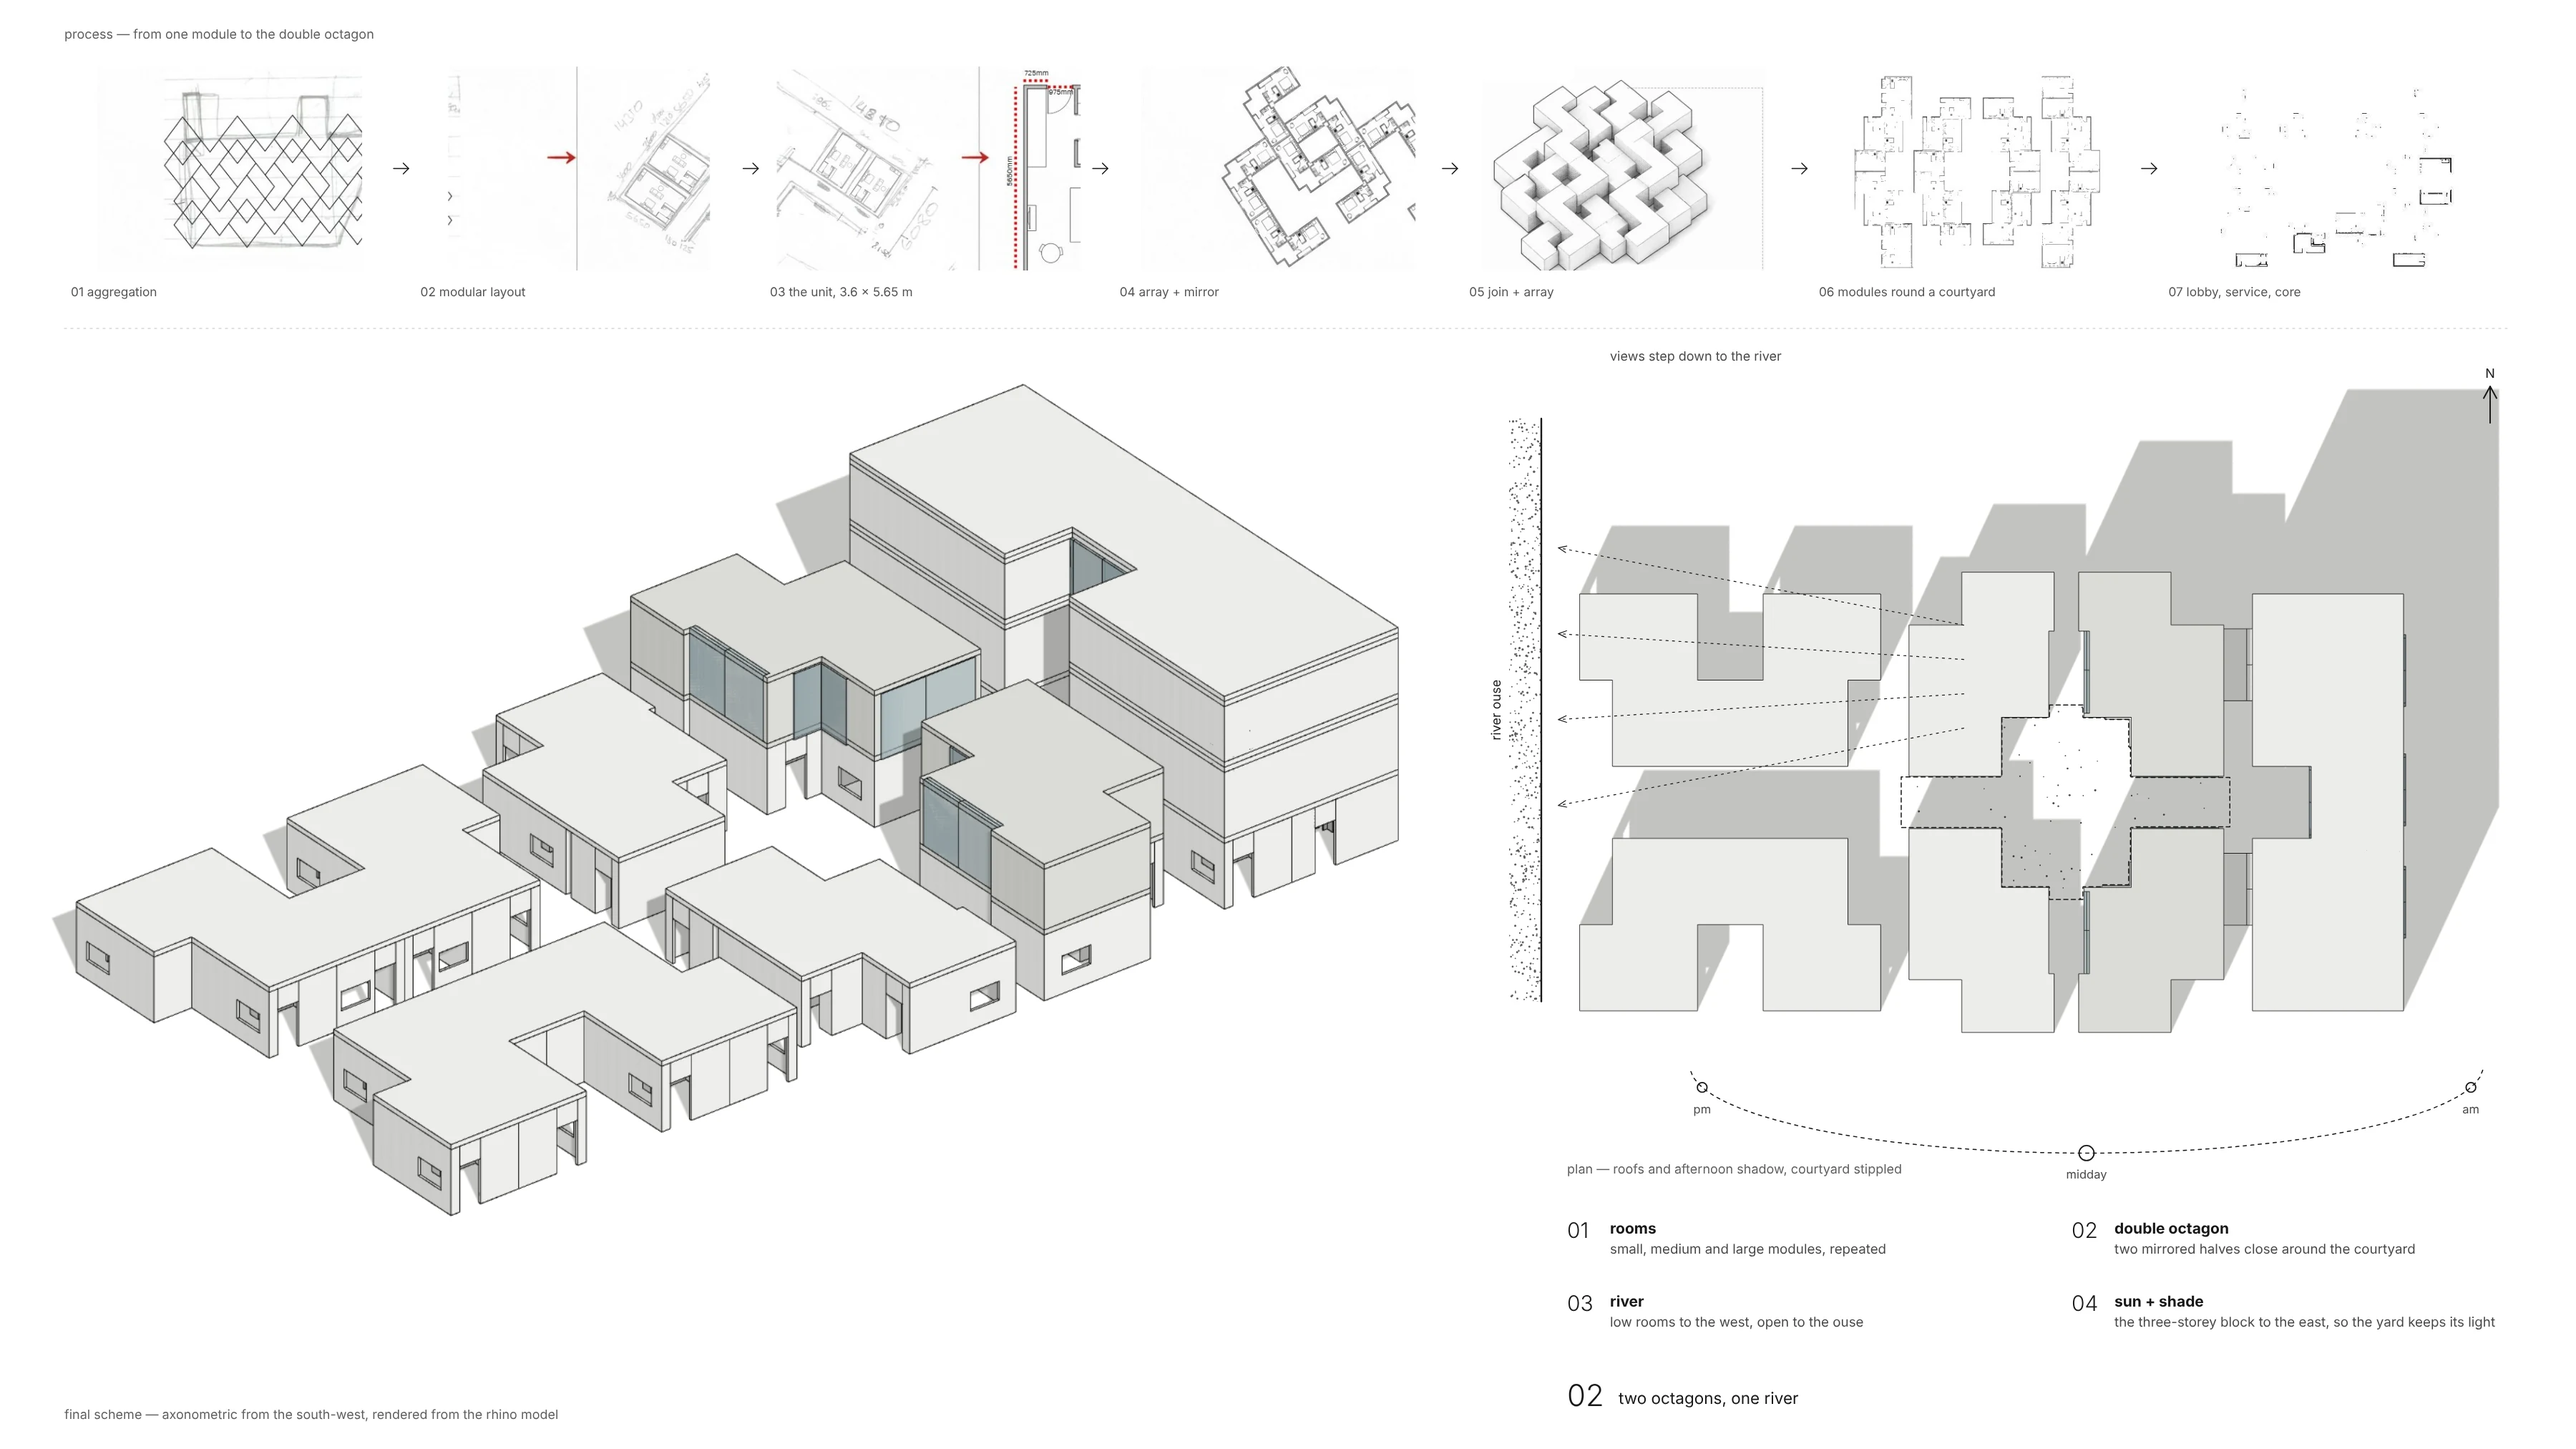
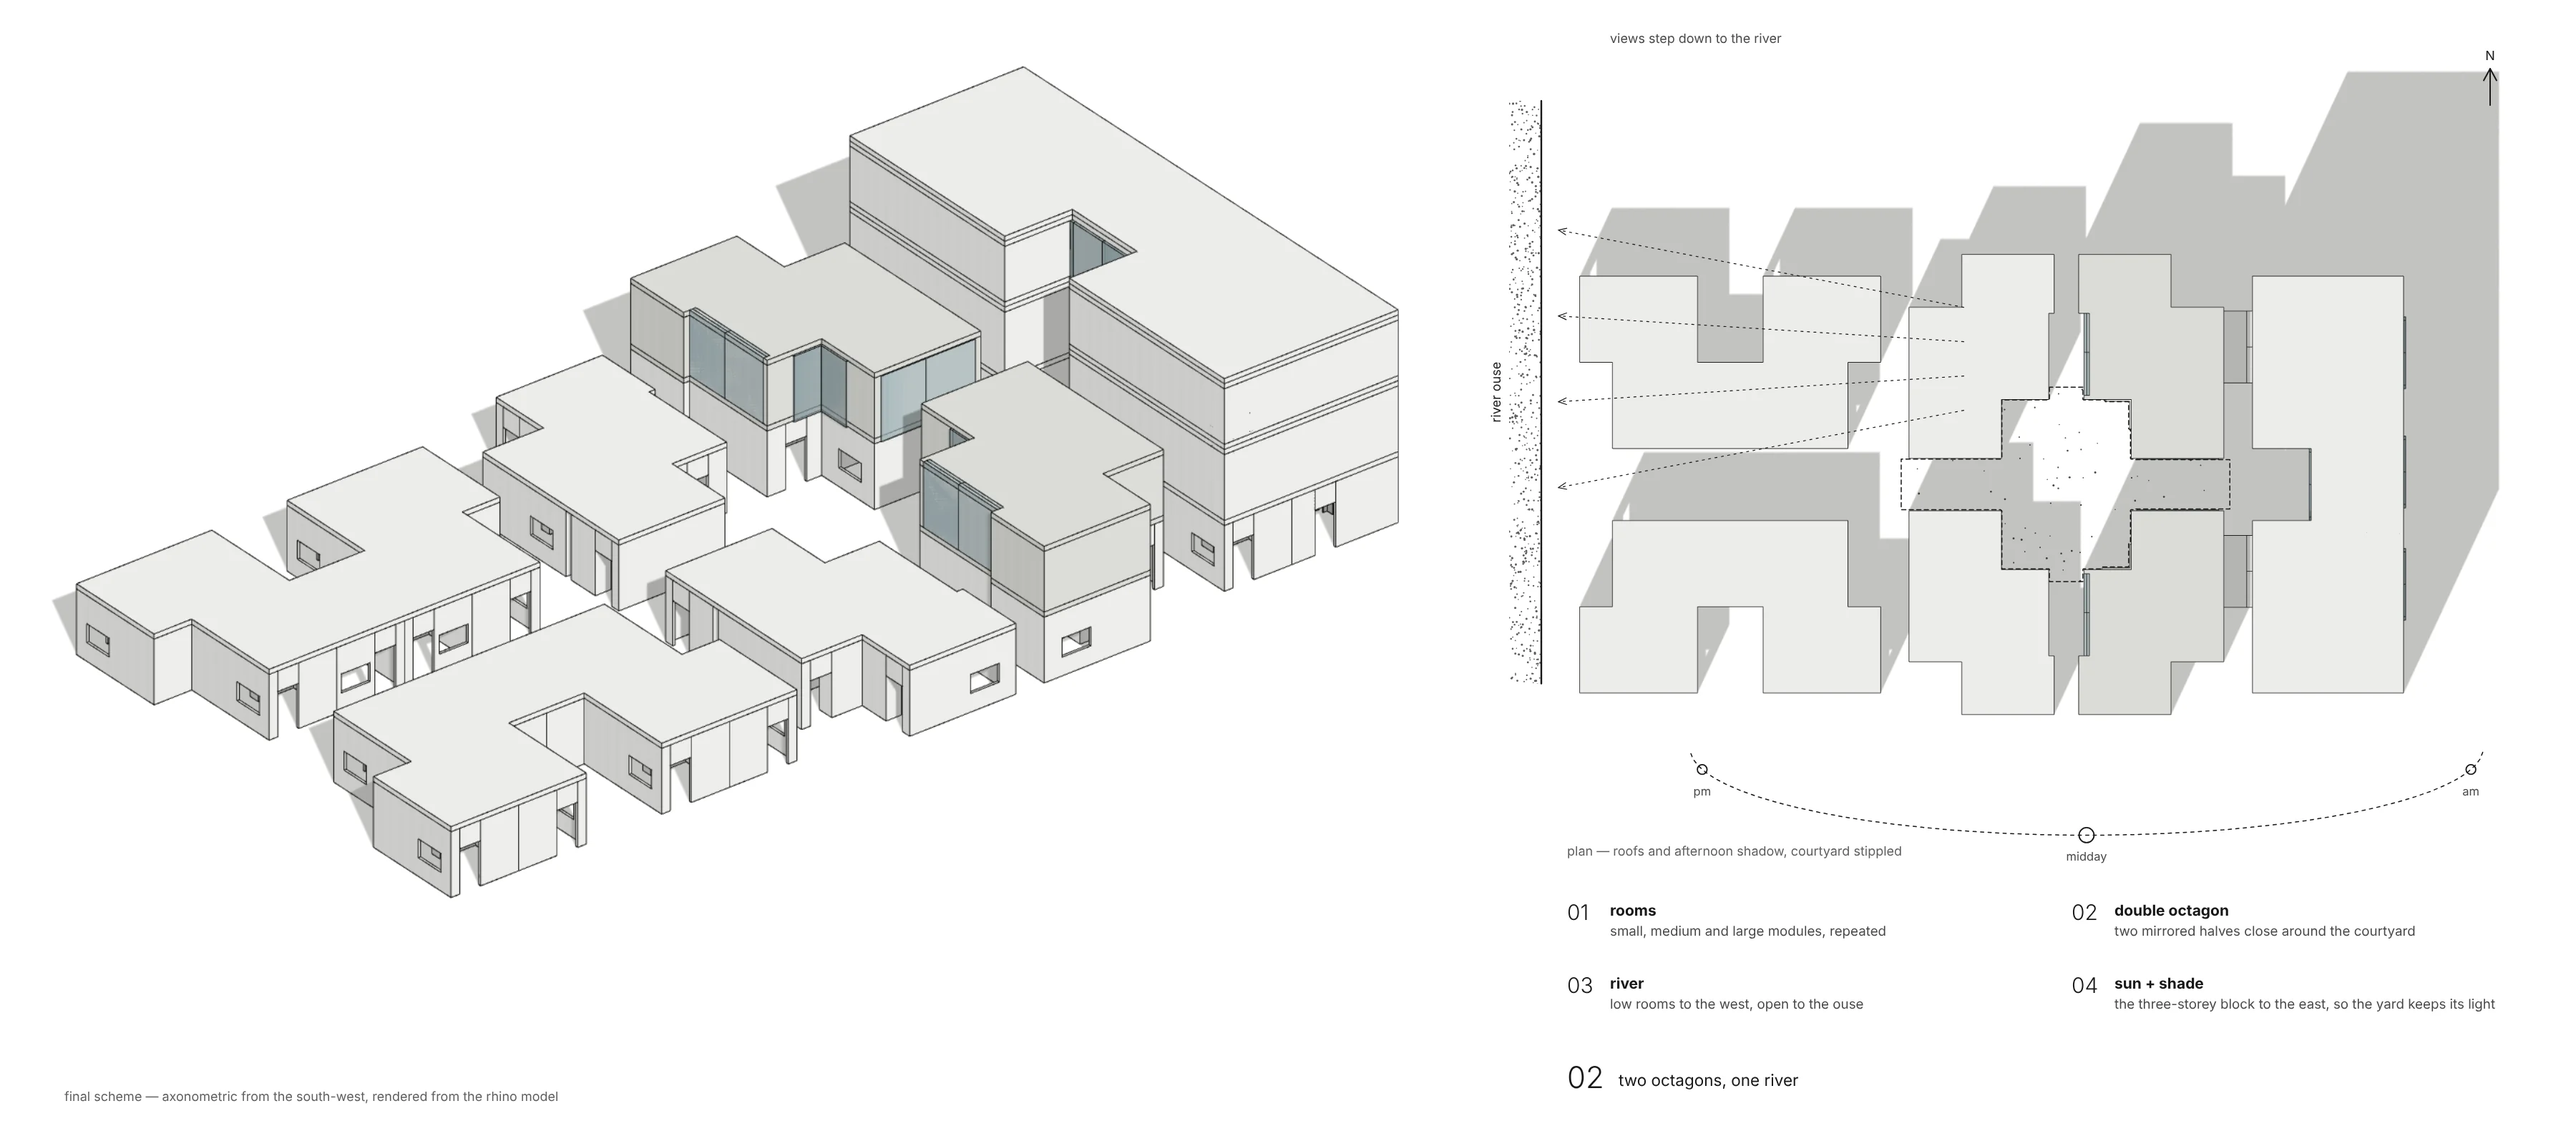
Check-in / Check-out sheet 2: remove process strip
Claude-Session: https://claude.ai/code/session_01QY36YexSrz47H8ohRwWEfB

diff --git a/academic/index.html b/academic/index.html
@@ -1,3 +1,3 @@
 <!doctype html>
 <html lang="en"><head><meta charset="utf-8"><meta name="viewport" content="width=device-width,initial-scale=1"><title>Academic — Muhammad Nada</title><meta name="description" content="Academic projects by Muhammad Nada."><link rel="stylesheet" href="/projects.css?v=7"><meta name="copyright" content="© Muhammad Nada. All rights reserved."><meta name="author" content="Muhammad Nada"><script src="/guard.js" defer></script></head>
-<body class="projects-page" data-collection="academic"><div class="frame" aria-hidden="true"></div><header class="project-topbar"><a class="project-brand" href="/">Muhammad Nada</a><nav aria-label="Primary"><a href="/">Home</a><a href="/form/">Info</a><a id="archive-toggle" href="#archive">Archive</a></nav></header><main><aside class="project-sidebar"><a class="back-index" href="/">← index</a><ul class="project-list" id="project-index" aria-label="Academic projects"></ul><div class="project-meta"><h1 id="project-title"></h1><p id="project-type"></p><p id="project-medium"></p><p>Muhammad Nada</p></div><div class="project-description"><p id="project-description"></p><span class="project-count" id="project-counter"></span></div></aside><section class="project-main" aria-label="Academic project viewer"><nav class="project-scroller" aria-label="Browse three projects"><button id="previous-project" aria-label="Previous project">←</button><div class="scroller-track"><input id="project-slider" type="range" min="1" max="3" step="1" value="1" aria-label="Project selector"><button data-project="0" aria-label="Project 1">01</button><button data-project="1" aria-label="Project 2">02</button><button data-project="2" aria-label="Project 3">03</button></div><button id="next-project" aria-label="Next project">→</button></nav><figure class="project-sheet" aria-live="polite"><div class="project-placeholder"><span class="folio" id="folio"></span><p id="sheet-title"></p><small>project imagery to be added</small></div><figcaption>studio / selected work</figcaption></figure></section></main><div class="theme-controls" role="group" aria-label="Colour theme"><small>theme</small><div><button data-theme="blue" aria-label="Turquoise theme"></button><button data-theme="yellow" aria-label="Yellow theme"></button><button data-theme="red" aria-label="Red theme"></button><button data-theme="light" aria-label="Light theme" aria-pressed="true"></button></div></div><div class="ticker" aria-label="Site updates"><div>EIGHT SIDES <span lang="ja">八つの面</span> <bdi lang="ar">ثمانية أوجه</bdi> /// ARCHITECTURE <span lang="ja">建築</span> <bdi lang="ar">عمارة</bdi> /// FORM <span lang="ja">形</span> <bdi lang="ar">شكل</bdi> /// FUNCTION <span lang="ja">機能</span> <bdi lang="ar">وظيفة</bdi> /// LIGHT + SHADE <span lang="ja">光と影</span> <bdi lang="ar">ضوء وظل</bdi> /// THE SEA <span lang="ja">海</span> <bdi lang="ar">البحر</bdi> /// CLAY + GLASS <span lang="ja">土と硝子</span> <bdi lang="ar">طين وزجاج</bdi> /// BALANCE <span lang="ja">均衡</span> <bdi lang="ar">توازن</bdi> /// REST <span lang="ja">休息</span> <bdi lang="ar">راحة</bdi> /// CAIRO · LONDON · BOSTON <span lang="ja">カイロ・ロンドン・ボストン</span> <bdi lang="ar">القاهرة · لندن · بوسطن</bdi> /// ALWAYS IN PROGRESS <span lang="ja">未完成</span> <bdi lang="ar">قيد الإنجاز</bdi> /// EIGHT SIDES <span lang="ja">八つの面</span> <bdi lang="ar">ثمانية أوجه</bdi> /// ARCHITECTURE <span lang="ja">建築</span> <bdi lang="ar">عمارة</bdi> /// FORM <span lang="ja">形</span> <bdi lang="ar">شكل</bdi> /// FUNCTION <span lang="ja">機能</span> <bdi lang="ar">وظيفة</bdi> /// LIGHT + SHADE <span lang="ja">光と影</span> <bdi lang="ar">ضوء وظل</bdi> /// THE SEA <span lang="ja">海</span> <bdi lang="ar">البحر</bdi> /// CLAY + GLASS <span lang="ja">土と硝子</span> <bdi lang="ar">طين وزجاج</bdi> /// BALANCE <span lang="ja">均衡</span> <bdi lang="ar">توازن</bdi> /// REST <span lang="ja">休息</span> <bdi lang="ar">راحة</bdi> /// CAIRO · LONDON · BOSTON <span lang="ja">カイロ・ロンドン・ボストン</span> <bdi lang="ar">القاهرة · لندن · بوسطن</bdi> /// ALWAYS IN PROGRESS <span lang="ja">未完成</span> <bdi lang="ar">قيد الإنجاز</bdi> /// </div></div><button class="sound" id="sound" aria-pressed="false" aria-label="Toggle interaction sounds"><span>▂ ▄ ▆</span><small>sound off</small></button><dialog id="archive"><button id="archive-close" class="archive-close" aria-label="Close archive">[ close × ]</button><h2>archive</h2><div class="archive-links"><a href="#project-1">academic / 01</a><a href="#project-2">academic / 02</a><a href="#project-3">academic / 03 serpentine pavilion</a></div></dialog><script type="module" src="/projects.mjs?v=7"></script></body></html>
+<body class="projects-page" data-collection="academic"><div class="frame" aria-hidden="true"></div><header class="project-topbar"><a class="project-brand" href="/">Muhammad Nada</a><nav aria-label="Primary"><a href="/">Home</a><a href="/form/">Info</a><a id="archive-toggle" href="#archive">Archive</a></nav></header><main><aside class="project-sidebar"><a class="back-index" href="/">← index</a><ul class="project-list" id="project-index" aria-label="Academic projects"></ul><div class="project-meta"><h1 id="project-title"></h1><p id="project-type"></p><p id="project-medium"></p><p>Muhammad Nada</p></div><div class="project-description"><p id="project-description"></p><span class="project-count" id="project-counter"></span></div></aside><section class="project-main" aria-label="Academic project viewer"><nav class="project-scroller" aria-label="Browse three projects"><button id="previous-project" aria-label="Previous project">←</button><div class="scroller-track"><input id="project-slider" type="range" min="1" max="3" step="1" value="1" aria-label="Project selector"><button data-project="0" aria-label="Project 1">01</button><button data-project="1" aria-label="Project 2">02</button><button data-project="2" aria-label="Project 3">03</button></div><button id="next-project" aria-label="Next project">→</button></nav><figure class="project-sheet" aria-live="polite"><div class="project-placeholder"><span class="folio" id="folio"></span><p id="sheet-title"></p><small>project imagery to be added</small></div><figcaption>studio / selected work</figcaption></figure></section></main><div class="theme-controls" role="group" aria-label="Colour theme"><small>theme</small><div><button data-theme="blue" aria-label="Turquoise theme"></button><button data-theme="yellow" aria-label="Yellow theme"></button><button data-theme="red" aria-label="Red theme"></button><button data-theme="light" aria-label="Light theme" aria-pressed="true"></button></div></div><div class="ticker" aria-label="Site updates"><div>EIGHT SIDES <span lang="ja">八つの面</span> <bdi lang="ar">ثمانية أوجه</bdi> /// ARCHITECTURE <span lang="ja">建築</span> <bdi lang="ar">عمارة</bdi> /// FORM <span lang="ja">形</span> <bdi lang="ar">شكل</bdi> /// FUNCTION <span lang="ja">機能</span> <bdi lang="ar">وظيفة</bdi> /// LIGHT + SHADE <span lang="ja">光と影</span> <bdi lang="ar">ضوء وظل</bdi> /// THE SEA <span lang="ja">海</span> <bdi lang="ar">البحر</bdi> /// CLAY + GLASS <span lang="ja">土と硝子</span> <bdi lang="ar">طين وزجاج</bdi> /// BALANCE <span lang="ja">均衡</span> <bdi lang="ar">توازن</bdi> /// REST <span lang="ja">休息</span> <bdi lang="ar">راحة</bdi> /// CAIRO · LONDON · BOSTON <span lang="ja">カイロ・ロンドン・ボストン</span> <bdi lang="ar">القاهرة · لندن · بوسطن</bdi> /// ALWAYS IN PROGRESS <span lang="ja">未完成</span> <bdi lang="ar">قيد الإنجاز</bdi> /// EIGHT SIDES <span lang="ja">八つの面</span> <bdi lang="ar">ثمانية أوجه</bdi> /// ARCHITECTURE <span lang="ja">建築</span> <bdi lang="ar">عمارة</bdi> /// FORM <span lang="ja">形</span> <bdi lang="ar">شكل</bdi> /// FUNCTION <span lang="ja">機能</span> <bdi lang="ar">وظيفة</bdi> /// LIGHT + SHADE <span lang="ja">光と影</span> <bdi lang="ar">ضوء وظل</bdi> /// THE SEA <span lang="ja">海</span> <bdi lang="ar">البحر</bdi> /// CLAY + GLASS <span lang="ja">土と硝子</span> <bdi lang="ar">طين وزجاج</bdi> /// BALANCE <span lang="ja">均衡</span> <bdi lang="ar">توازن</bdi> /// REST <span lang="ja">休息</span> <bdi lang="ar">راحة</bdi> /// CAIRO · LONDON · BOSTON <span lang="ja">カイロ・ロンドン・ボストン</span> <bdi lang="ar">القاهرة · لندن · بوسطن</bdi> /// ALWAYS IN PROGRESS <span lang="ja">未完成</span> <bdi lang="ar">قيد الإنجاز</bdi> /// </div></div><button class="sound" id="sound" aria-pressed="false" aria-label="Toggle interaction sounds"><span>▂ ▄ ▆</span><small>sound off</small></button><dialog id="archive"><button id="archive-close" class="archive-close" aria-label="Close archive">[ close × ]</button><h2>archive</h2><div class="archive-links"><a href="#project-1">academic / 01</a><a href="#project-2">academic / 02</a><a href="#project-3">academic / 03 serpentine pavilion</a></div></dialog><script type="module" src="/projects.mjs?v=8"></script></body></html>
